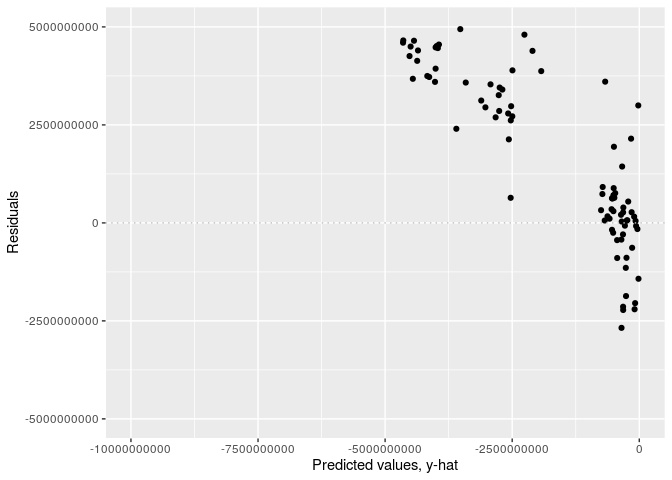
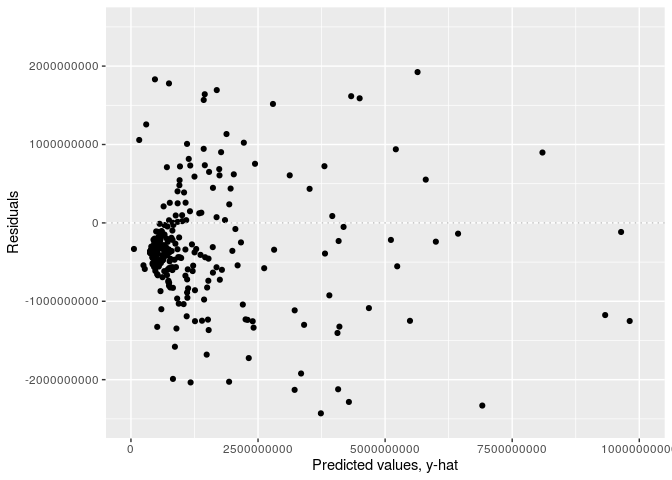
Adding this in bc apparently didn't push

diff --git a/data-analysis/data-analysis.md b/data-analysis/data-analysis.md
@@ -750,11 +750,11 @@ ggplot(data = best_aic_aug, aes(x = .fitted, y = .resid)) +
   geom_point() +
   geom_hline(yintercept = 0, lty = 3, color = "gray") +
   labs(y = "Residuals", x = "Predicted values, y-hat") +
-  xlim(-10000000000, 0) +
-  ylim(-5000000000, 5000000000)
+  xlim(0, 10000000000) +
+  ylim(-2500000000, 2500000000)
 ```
 
-    ## Warning: Removed 457 rows containing missing values (geom_point).
+    ## Warning: Removed 240 rows containing missing values (geom_point).
 
 ![](data-analysis_files/figure-gfm/dist-and-variance-resids-zoom-1.png)<!-- -->
 
